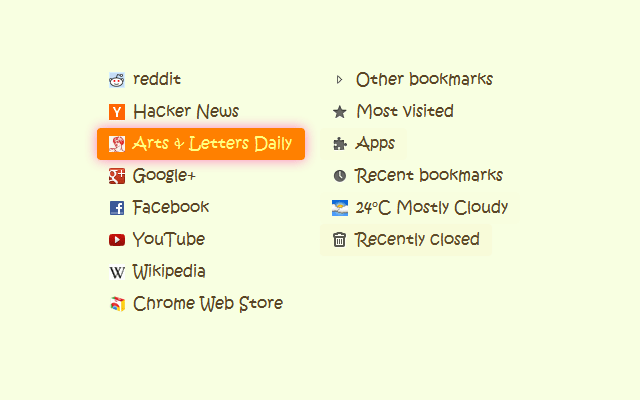
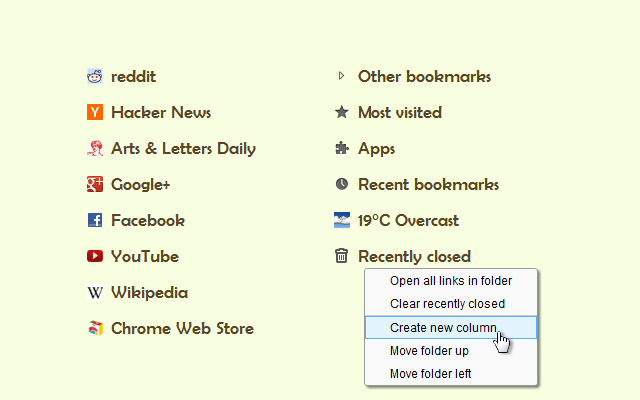
v1.5 use yahoo weather api, enable fontlist

diff --git a/newtab.js b/newtab.js
@@ -921,11 +921,12 @@ function refreshClosed() {
 	});
 }
 
-// gets weather info from unofficial google api
+// gets weather info from yahoo weather api using YQL
 function getWeather(callback) {
-	var url = 'http://www.google.com/ig/api?weather=' + 
-		encodeURIComponent(getConfig('weather_location')) + 
-		'&hl=' + getConfig('weather_units');
+	var query = 'select * from weather.forecast where u="' + getConfig('weather_units') +
+		'" and woeid in (select woeid from geo.places where text="' + getConfig('weather_location') + '") limit 1;';
+
+	var url = 'http://query.yahooapis.com/v1/public/yql?format=json&q=' + encodeURIComponent(query);
 
 	// check cache
 	var bg = chrome.extension.getBackgroundPage();
@@ -950,44 +951,51 @@ function getWeather(callback) {
 
 	request.onload = function(event) {
 		var nodes = [];
-		var response = request.responseXML;
-		var isC = getConfig('weather_units') == 'en-gb';
-
-		var current = response.getElementsByTagName('current_conditions')[0];
-
-		// validate
-		if (!current) {
+		var response = request.response;
+		if (!response) {
 			onerror();
 			return;
 		}
+		response = JSON.parse(response);
+		// validate
+		if (!response || !response.query || !response.query.results) {
+			onerror();
+			return;
+		}
+
+		var response = response.query.results.channel;
+		var current = response.item.condition;
+		var location = response.location;
+		if (!current || !location) {
+			onerror();
+			return;
+		}
+
 		// correct location value
-		var city = getWeatherData(response, 'city');
+		var city = location.city + (location.region ? ', ' + location.region : '') + ', ' + location.country;
 		if (city != getConfig('weather_location')) {
 			var input = document.getElementById('options_weather_location');
 			input.value = city;
 			input.onchange();
-			callback([]);
 			return;
 		}
 
 		// current conditions
 		var parentnode = {
 			id: 'weather',
-			title: getWeatherData(current, isC ? 'temp_c' : 'temp_f') + '°' +
-				(isC ? 'C' : 'F') + ' ' + 
-				getWeatherData(current, 'condition'),
-			icon: 'http://www.google.com' + getWeatherData(current, 'icon')
+			title: current.temp + '°' + (getConfig('weather_units') == 'c' ? 'C' : 'F') + ' ' + current.text,
+			icon: 'http://l.yimg.com/a/i/us/we/52/' + current.code + '.gif'
 		};
 
 		// forecast
-		var forecast = response.getElementsByTagName('forecast_conditions');
+		var forecast = response.item.forecast;
 		for (var i = 0; i < forecast.length; i++) {
 			nodes.push({
-				title: getWeatherData(forecast[i], 'day_of_week') + ' ' +
-				 getWeatherData(forecast[i], 'low') + '° | ' + 
-				 getWeatherData(forecast[i], 'high') + '° ' +
-				 getWeatherData(forecast[i], 'condition'),
-				icon: 'http://www.google.com' + getWeatherData(forecast[i], 'icon')
+				title: forecast[i].day + ' ' +
+					forecast[i].low + '° | ' + 
+					forecast[i].high + '° ' +
+					forecast[i].text,
+				icon: 'http://l.yimg.com/a/i/us/we/52/' + forecast[i].code + '.gif'
 			});
 		}
 		parentnode.children = nodes;
@@ -1000,11 +1008,6 @@ function getWeather(callback) {
 
 	request.open('GET', url, true);
 	request.send();
-}
-
-// gets xml node data
-function getWeatherData(parent, tag) {
-	return parent.getElementsByTagName(tag)[0].attributes.data.value;
 }
 
 // refreshes weather items
@@ -1045,8 +1048,8 @@ var config = {
 	slide: 1,
 	hide_options: 0,
 	lock: 0,
-	weather_location: 'Toronto, ON',
-	weather_units: 'en-gb',
+	weather_location: 'Toronto, ON, Canada',
+	weather_units: 'c',
 	show_top: 1,
 	show_apps: 1,
 	show_recent: 1,
@@ -1302,7 +1305,7 @@ function initConfig(key) {
 // initialize settings
 function initSettings() {
 	// check if experimental enabled
-	if (chrome.experimental) {
+	if (chrome.fontSettings) {
 		// replace text input with system font list
 		var input = document.getElementById('options_font');
 		var select = document.createElement('select');
@@ -1339,15 +1342,15 @@ function initSettings() {
 	}
 
 	// load font list
-	if (chrome.experimental) {
-		chrome.experimental.fontSettings.getFontList(function(fonts)  {
+	if (chrome.fontSettings) {
+		chrome.fontSettings.getFontList(function(fonts)  {
 			var select = document.getElementById('options_font');
 			if (select.childNodes.length > 0)
 				return;
 
-			fonts.unshift({ fontName: 'Sans-serif' });
+			fonts.unshift({ fontId: 'Sans-serif' });
 			for (var i = 0; i < fonts.length; i++) {
-				var font = fonts[i].fontName;
+				var font = fonts[i].fontId;
 				var option = document.createElement('option');
 				option.innerText = font;
 				if (font == getConfig('font'))

diff --git a/newtab.html b/newtab.html
@@ -250,8 +250,8 @@ input, select {
 		<legend>Weather</legend>
 		<label>Location<input id="options_weather_location" type="text"/></label>
 		<label>°C or °F<select id="options_weather_units">
-			<option value="en-gb">Celsius</option>
-			<option value="en-us">Fahrenheit</option>
+			<option value="c">Celsius</option>
+			<option value="f">Fahrenheit</option>
 		</select></label>
 	</fieldset>
 	<fieldset>

diff --git a/background.js b/background.js
@@ -40,7 +40,7 @@ function cacheWeather(data, url) {
 		weather = null;
 		weatherUrl = null;
 		expireHandle = null;
-	}, 1000*60*5);// cache 5 minutes
+	}, 1000*60*15);// cache 15 minutes
 }
 
 // store initial tabs
